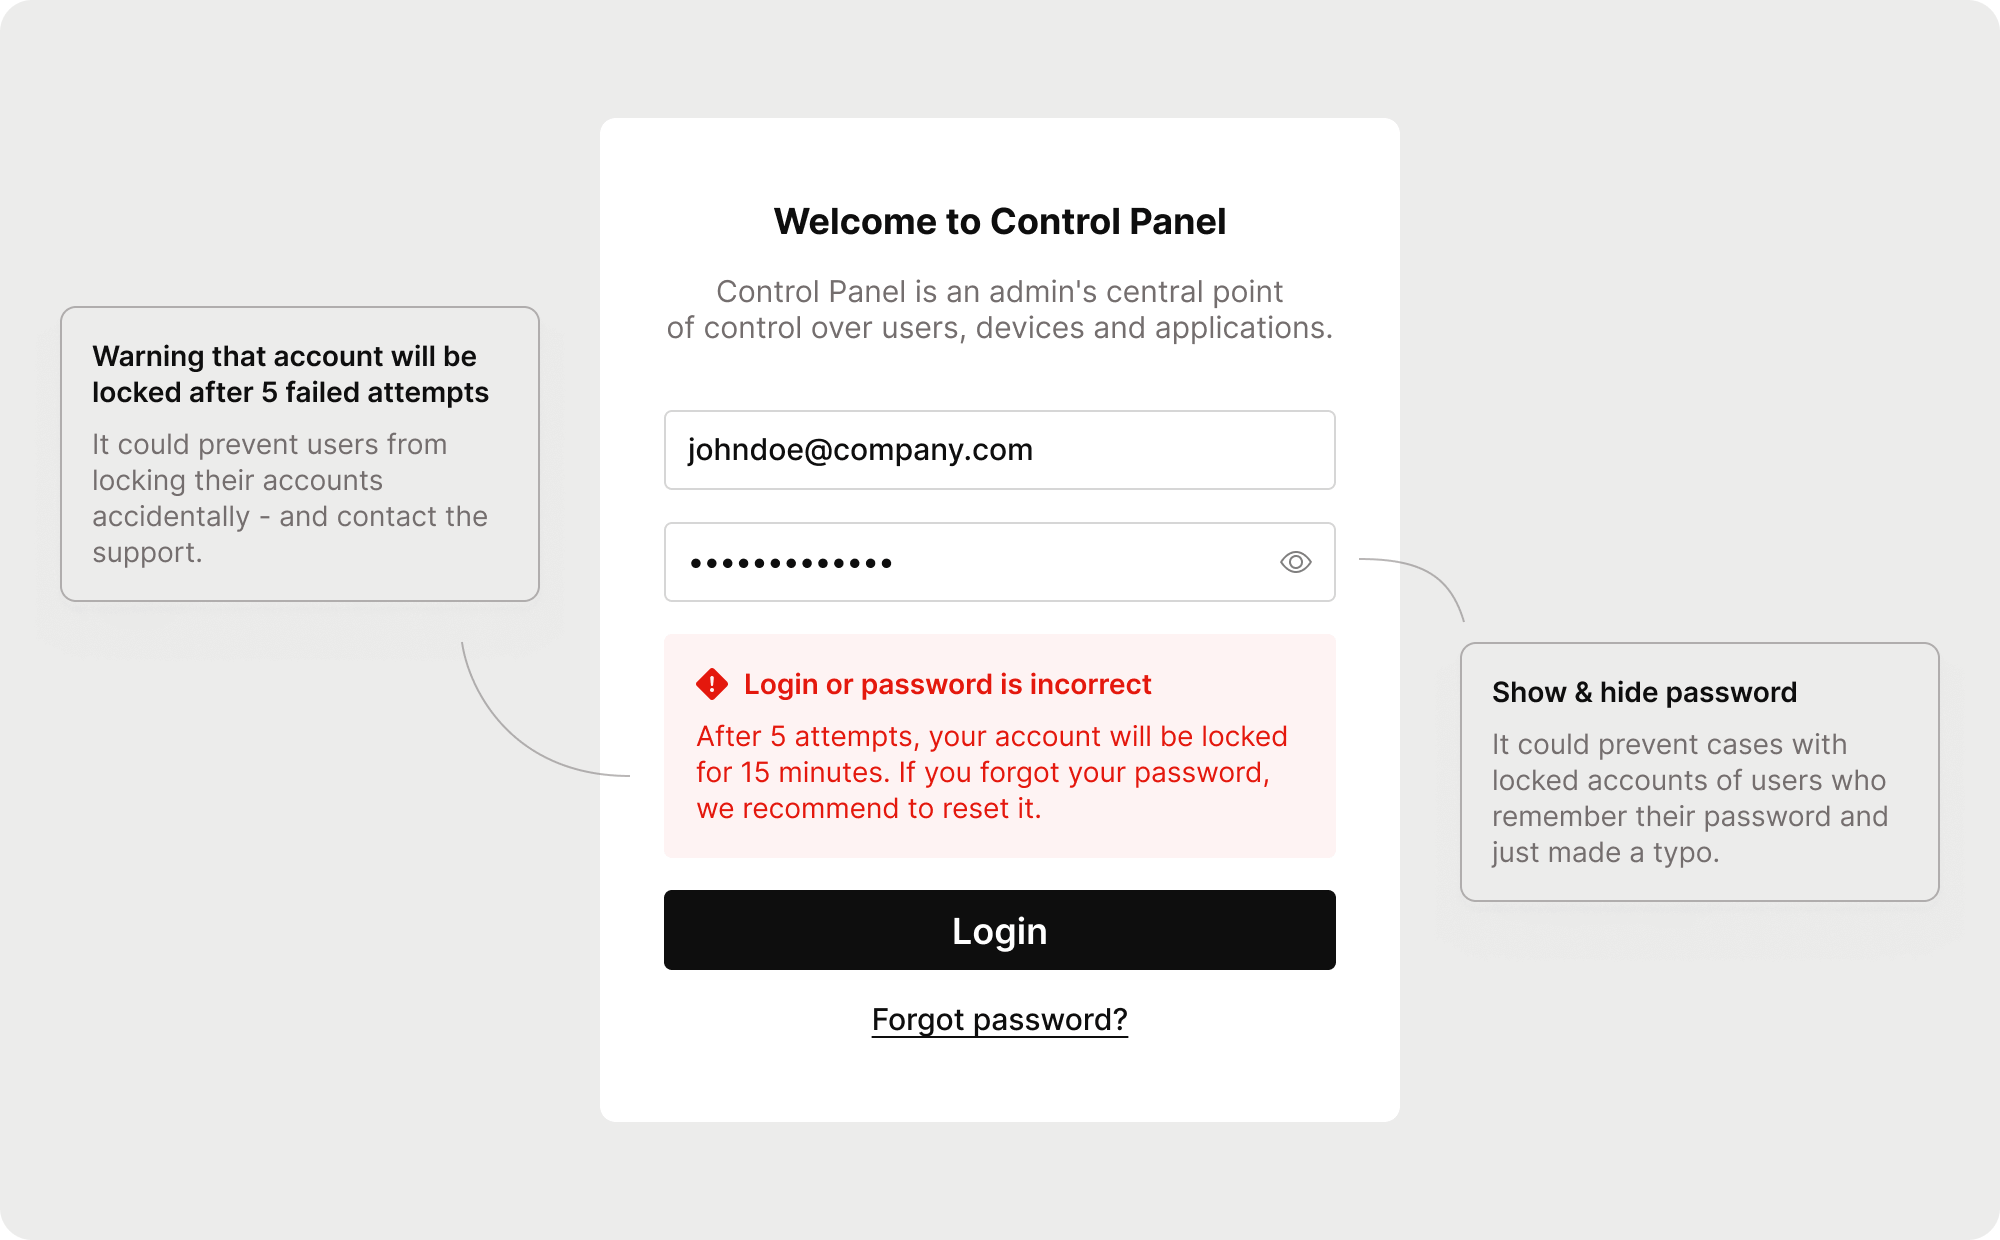
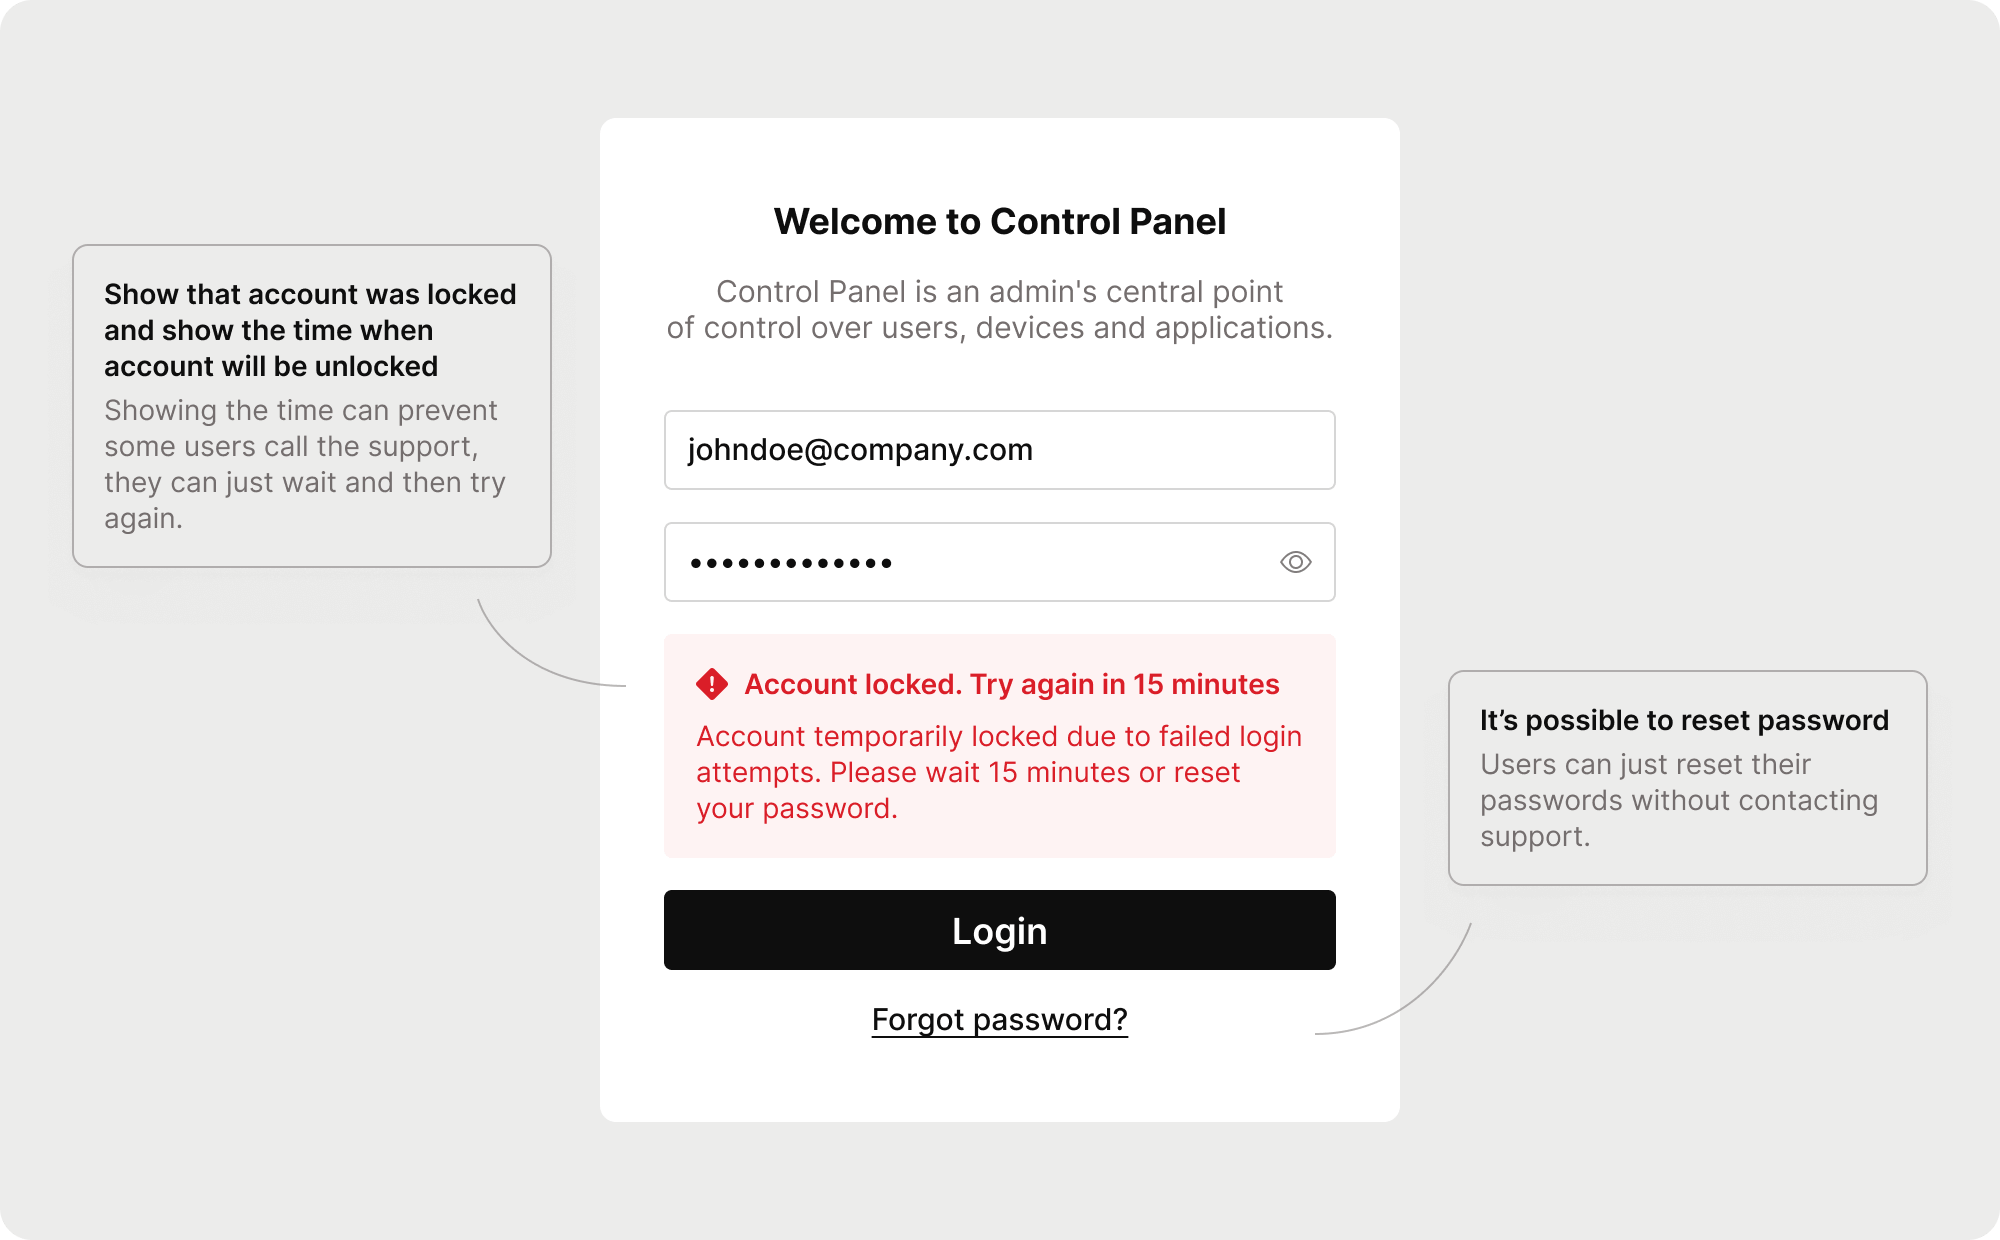
Update images for login form case

diff --git a/_case-studies/login-form.md b/_case-studies/login-form.md
@@ -8,39 +8,39 @@ next_url: "/case-studies/bureau/"
 
 ![Cover image for login form case study](login-form-cover.png)
 
-## Initiative
+## Users contact support after failed logins
 
-While there wasn't an&nbsp;established process for reviewing support cases in&nbsp;our company, I&nbsp;took the initiative to&nbsp;dive into them myself. I&nbsp;discovered a&nbsp;significant number of&nbsp;cases related to&nbsp;blocked accounts. Intrigued, I&nbsp;decided to&nbsp;investigate the login form's functionality.
+Blocked accounts were among the top-5 reasons for support requests. Users didn’t understand why they couldn’t log in&nbsp;, they weren’t informed that their account was locked after several failed attempts or&nbsp;that it&nbsp;would automatically unlock after 15&nbsp;minutes. As&nbsp;a&nbsp;result, they repeatedly contacted support instead of&nbsp;simply waiting.
 
-## The Issues
+## I&nbsp;noticed the pattern and decided to&nbsp;investigate
 
-It&nbsp;turned out the login form was poorly designed:
+There was no&nbsp;established process for reviewing support cases, so&nbsp;I&nbsp;took the initiative to&nbsp;explore them myself. I&nbsp;found that the login form was misleading – it&nbsp;didn’t clearly communicate what was happening or&nbsp;what users should do&nbsp;next.
 
-![Issue 1 with initial login form](login-form-01.png)
+![Issues with initial login form](login-form-01.png)
 
-- The form didn&rsquo;t show users passwords, so&nbsp;they can&rsquo;t be&nbsp;sure if&nbsp;it&nbsp;is&nbsp;correct or&nbsp;not.
-- It&nbsp;didn&rsquo;t warn users about account locking after several failed attempts.
-- The form didn&rsquo;t notify users when they were locked; it&nbsp;only notifies users about locking if&nbsp;they typed the correct password.
-- The locking lasts for 15&nbsp;minutes, but the form didn&rsquo;t warn users about&nbsp;it.
-- The form didn&rsquo;t allow password resets if&nbsp;the account was locked.
+## Instead of&nbsp;a&nbsp;big redesign, I&nbsp;focused on&nbsp;high-impact fixes
 
-These issues explained the high number of&nbsp;support requests. Moreover, there were error messages in&nbsp;different styles and with unclear wording.
+After discussing with developers, I&nbsp;realized that a&nbsp;full redesign would take too&nbsp;much time and resources. So&nbsp;instead, I&nbsp;focused on&nbsp;small, simple improvements with the highest potential impact. I&nbsp;prioritized these ideas, prepared visuals, and presented them to&nbsp;the product manager. 
 
-## Solution
+![Prioritized changes presentation](login-form-02.png)
 
-While tempted to&nbsp;redesign the entire form (and&nbsp;I redesigned&nbsp;it, but only for the portfolio case, the original form looks less appealing), I&nbsp;realized that small, targeted changes would be&nbsp;more efficient and quicker for the development team to&nbsp;implement.
+The proposal was approved and added to&nbsp;the development scope.
 
-![Redesigned login form step 1](login-form-04.png)
-![Redesigned login form step 2](login-form-05.png)
+## Key improvements
 
-I&nbsp;prioritized these changes based on&nbsp;their potential impact, drawing from my&nbsp;experience, and presented them to&nbsp;stakeholders.
+- Added clear messages explaining why the account is&nbsp;locked and for how long  
+- Allowed password reset even for locked accounts  
+- Improved error wording and visual consistency  
 
-![Prioritized changes presentation](login-form-06.png)
+![Redesigned login form step 1](login-form-03.png)
+![Redesigned login form step 2](login-form-04.png)
 
-## Project Status
+## Approved for development and ready to&nbsp;measure results
 
-The project was approved and is&nbsp;currently in&nbsp;development.
+The project was approved for implementation. Once released, I&nbsp;plan to&nbsp;track its effect by&nbsp;comparing the number of&nbsp;related support cases. I&nbsp;expect these small changes to&nbsp;make the login process clearer and reduce unnecessary support load.
 
-Although I&nbsp;can&rsquo;t present metrics yet, I&nbsp;plan to&nbsp;use the support case numbers as&nbsp;a&nbsp;baseline post-release. My&nbsp;hypothesis is&nbsp;that these small changes will enhance user experience providing clarity and transparency and, as&nbsp;a&nbsp;result, reduce support requests.
+## Small initiative, real impact
+
+This case shows how taking initiative and focusing on&nbsp;pragmatic UX improvements can meaningfully improve both user experience and business outcomes even without a&nbsp;full redesign.
 
 </div>
